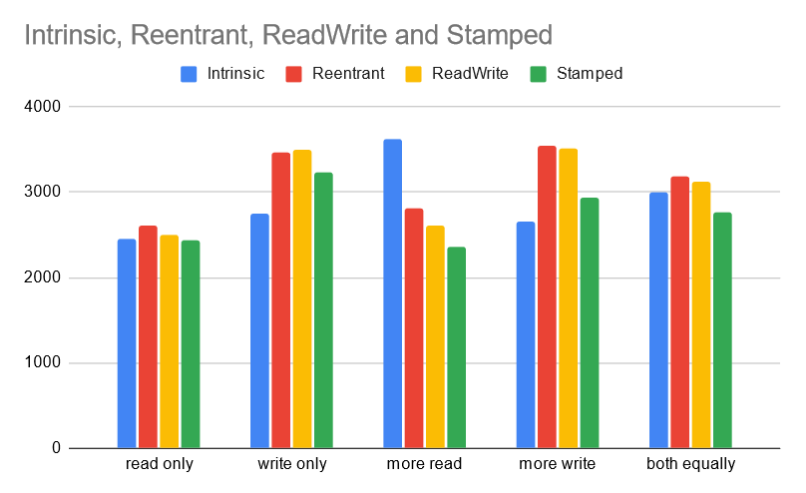
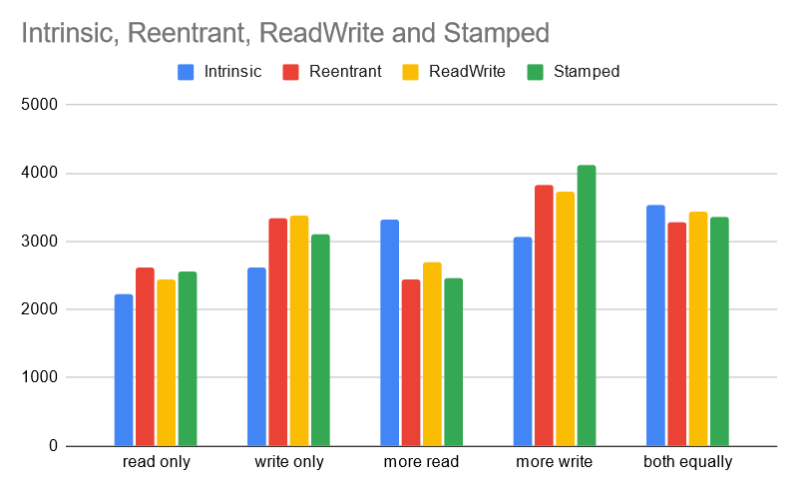
more robust simulation

diff --git a/src/main/java/sebfisch/accounts/Simulation.java b/src/main/java/sebfisch/accounts/Simulation.java
@@ -3,19 +3,23 @@ package sebfisch.accounts;
 import java.time.Duration;
 import java.time.Instant;
 import java.util.ArrayList;
+import java.util.Collections;
 import java.util.List;
 import java.util.concurrent.ExecutorService;
 import java.util.concurrent.Executors;
 import java.util.concurrent.TimeUnit;
 import java.util.concurrent.atomic.LongAdder;
+import java.util.function.LongConsumer;
 import java.util.function.Supplier;
 import java.util.random.RandomGenerator;
 import java.util.random.RandomGeneratorFactory;
+import java.util.stream.LongStream;
 
 public class Simulation<A extends Bank.Account> {
 
   static final int NUMBER_OF_THREADS = 16;
   static final long NUMBER_OF_TASKS = 10000000;
+  static final int NUMBER_OF_EXECUTIONS = 5;
   static final int NUMBER_OF_ACCOUNTS = 10;
   static final int STARTING_BALANCE = 100000;
 
@@ -82,13 +86,17 @@ public class Simulation<A extends Bank.Account> {
     return accounts.get(rgen.nextInt(accounts.size()));
   }
 
-  void run() throws InterruptedException {
-    runOnce();
-    runOnce();
-    runOnce();
+  void run() {
+    RunTimes times = LongStream
+        .generate(this::runOnce)
+        .limit(NUMBER_OF_EXECUTIONS)
+        .collect(RunTimes::new, (rts, t) -> rts.accept(t), RunTimes::combine);
+
+    System.out.println("median: %dms, median absolute deviation: %dms"
+        .formatted(times.median(), times.medianAbsoluteDeviation()));
   }
 
-  void runOnce() throws InterruptedException {
+  long runOnce() {
     ExecutorService pool = Executors.newFixedThreadPool(NUMBER_OF_THREADS);
     LongAdder observedBalance = new LongAdder();
     LongAdder crashedTransfers = new LongAdder();
@@ -96,7 +104,12 @@ public class Simulation<A extends Bank.Account> {
     Instant start = Instant.now();
     accessAccounts(pool, observedBalance, crashedTransfers);
     pool.shutdown();
-    pool.awaitTermination(10, TimeUnit.SECONDS); // should finish sooner
+    try {
+      pool.awaitTermination(10, TimeUnit.SECONDS); // should finish sooner
+    } catch (InterruptedException e) {
+      System.out.println("interrupted after %dms"
+          .formatted(Duration.between(start, Instant.now()).toMillis()));
+    }
     long durationInMs = Duration.between(start, Instant.now()).toMillis();
 
     if (!pool.isTerminated()) {
@@ -105,6 +118,8 @@ public class Simulation<A extends Bank.Account> {
       System.out.println("observed balance is %d after %d crashed transfers and %dms"
           .formatted(observedBalance.sum(), crashedTransfers.sum(), durationInMs));
     }
+
+    return durationInMs;
   }
 
   void accessAccounts(ExecutorService pool, LongAdder observedBalance, LongAdder crashedTransfers) {
@@ -129,6 +144,35 @@ public class Simulation<A extends Bank.Account> {
       pool.execute(() -> {
         observedBalance.add(account.balance());
       });
+    }
+  }
+
+  record RunTimes(List<Long> times) implements LongConsumer {
+    RunTimes() {
+      this(new ArrayList<>());
+    }
+
+    @Override
+    public void accept(long time) {
+      times.add(time);
+    }
+
+    public RunTimes combine(RunTimes that) {
+      List<Long> combinedTimes = new ArrayList<>(this.times());
+      combinedTimes.addAll(that.times());
+      return new RunTimes(combinedTimes);
+    }
+
+    public long median() {
+      Collections.sort(times);
+      return times.get(times.size() / 2);
+    }
+
+    public long medianAbsoluteDeviation() {
+      long m = median();
+      List<Long> deviations = new ArrayList<>();
+      times.stream().map(time -> Math.abs(m - time)).forEach(deviations::add);
+      return new RunTimes(deviations).median();
     }
   }
 }
